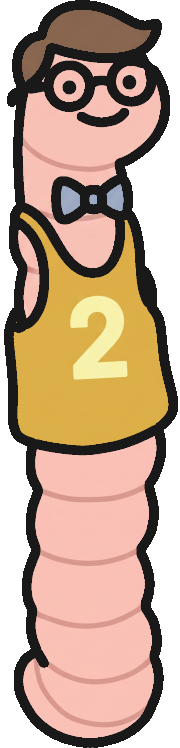
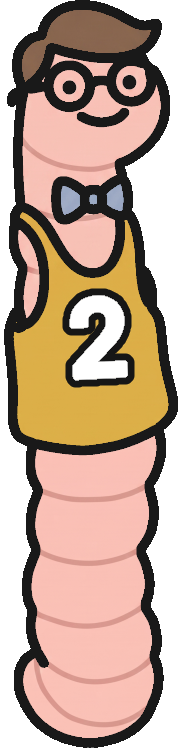
Contour noir autour des numéros des Vers, 2 du Chouchou en blanc (DP.3)
Claude-Session: https://claude.ai/code/session_01QntoMPVFQehffZzndZXbVa

Changed region(s): [[0.3333, 0.369, 0.75, 0.5227]]

diff --git a/docs/decisions.md b/docs/decisions.md
@@ -400,3 +400,6 @@ léger éventail, puis demandé qu'on voie mieux quand c'est à l'autre de jouer
   car il n'y a pas d'élève dessiné à côté.
 - **DP.2 — « J » blanc sur la chasuble du Petit des Vers** (et de sa tenue miroir), comme les
   autres numéros : le bleu marine du dessin est passé en blanc, trait noir inchangé.
+- **DP.3 — Contour noir autour des numéros des Vers**, comme chez les autres équipes (16 dessins,
+  tenue miroir comprise) : trait de 8 px de texture, la même épaisseur que les chiffres des
+  écoliers. Le « 2 » du Chouchou, crème (ou bleu pâle en miroir), passe en blanc comme les autres.
